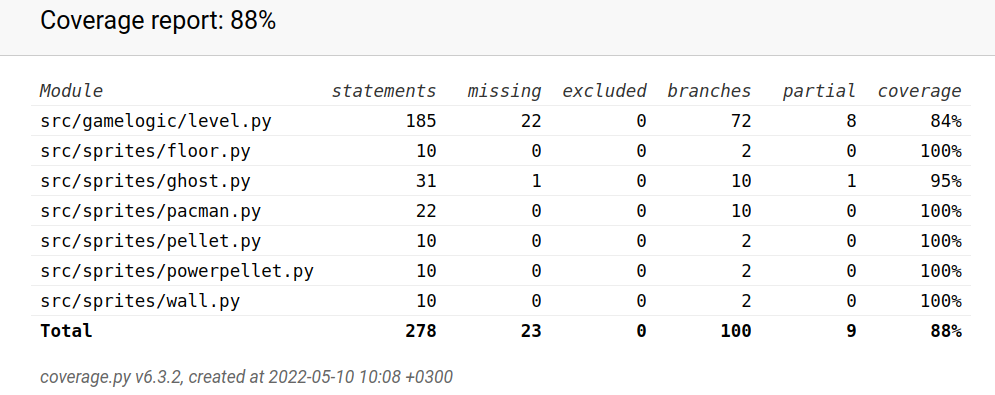
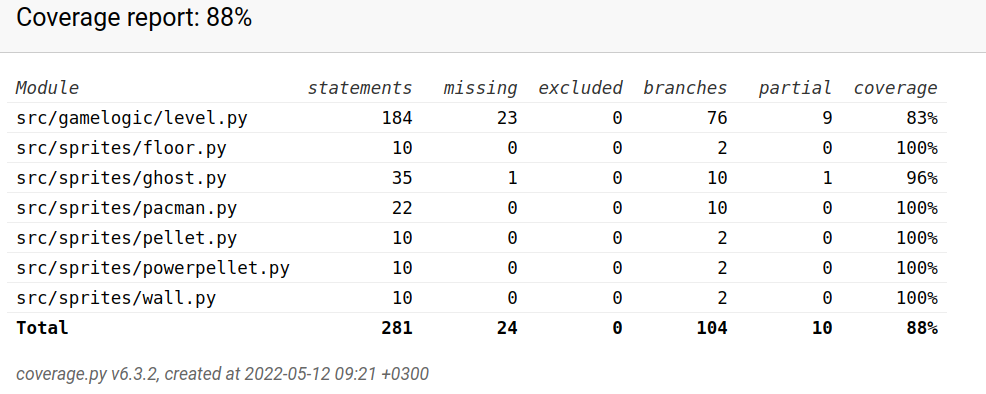
korjauksia ghost-luokkaan

diff --git a/src/gamelogic/level.py b/src/gamelogic/level.py
@@ -50,6 +50,7 @@ class Level:  # pylint: disable=too-many-instance-attributes
                    5: self._add_ghost,
                    6: self._add_ghost,
                    7: self._add_ghost,
+                   8: self._add_floors,
                    9: self._add_empty}
 
         for height in range(level_height):
@@ -82,6 +83,9 @@ class Level:  # pylint: disable=too-many-instance-attributes
 
     def _add_pacman(self):
         self.pacman = Pacman(self.normalized_x, self.normalized_y)
+        self.floors.add(Floor(self.normalized_x, self.normalized_y))
+
+    def _add_floors(self):
         self.floors.add(Floor(self.normalized_x, self.normalized_y))
 
     def _add_ghost(self):
@@ -162,8 +166,8 @@ class Level:  # pylint: disable=too-many-instance-attributes
         Args:
             ghost: Ghost-luokan sprite.
         """
-        starting_point = 5*CELL_SIZE + CELL_SIZE*ghost.number
-        new_ghost = Ghost(ghost.number, starting_point, 7*CELL_SIZE)
+        new_ghost = Ghost(ghost.number, ghost.starting_point[0]*CELL_SIZE,
+            ghost.starting_point[1]*CELL_SIZE)
         self._speed_up_ghost(new_ghost)
         self.ghosts.add(new_ghost)
         self.all_sprites.add(self.ghosts)
@@ -172,7 +176,7 @@ class Level:  # pylint: disable=too-many-instance-attributes
         if self.cleared >= 1:
             ghost.speed = max(ghost.speed-(self.cleared*3), 3)
 
-    def move_pacman(self):
+    def move_pacman(self, direction):
         """Pacman-luokan spriten liikuttaminen. Jos Pacman on keskellä ruutua ja liikkuminen on
         mahdollista new_direction-suuntaan, asetetaan nykyiseksi suunnaksi new_direction.
         Tämän jälkeen vaihdetaan kuva vastaamaan liikkumissuuntaa, liikutaan nykyiseen
@@ -183,8 +187,8 @@ class Level:  # pylint: disable=too-many-instance-attributes
         """
         self._check_timer()
         if self._centered(self.pacman):
-            if self._moving_is_possible(self.pacman.new_direction):
-                self.pacman.direction = self.pacman.new_direction
+            if self._moving_is_possible(direction):
+                self.pacman.direction = direction
         if self._moving_is_possible(self.pacman.direction):
             self.pacman.set_image()
             self.pacman.rect.move_ip(
@@ -242,25 +246,30 @@ class Level:  # pylint: disable=too-many-instance-attributes
                 return True
         return False
 
+    def _check_neighbours(self, queue, visited, current_cell, path):
+        for neighbour in [(0, 1), (0, -1), (1, 0), (-1, 0)]:
+            if self._neighbour_is_inside_matrix(neighbour, current_cell):
+                next_cell = [neighbour[0]+current_cell[0],
+                            neighbour[1]+current_cell[1]]
+                if next_cell not in visited and self.level[next_cell[1]][next_cell[0]] != 1:
+                    queue.append(next_cell)
+                    path.append([current_cell, next_cell])
+        return path
+
     def _bfs(self, starting_cell, target_cell):
         queue = deque()
         visited = []
         path = []
         queue.append(starting_cell)
-        while queue:  # pylint: disable=too-many-nested-blocks
+        while queue:
             current_cell = queue.popleft()
             visited.append(current_cell)
 
             if current_cell == target_cell:
                 break
 
-            for neighbour in [(0, 1), (0, -1), (1, 0), (-1, 0)]:
-                if self._neighbour_is_inside_matrix(neighbour, current_cell):
-                    next_cell = [neighbour[0]+current_cell[0],
-                                 neighbour[1]+current_cell[1]]
-                    if next_cell not in visited and self.level[next_cell[1]][next_cell[0]] != 1:
-                        queue.append(next_cell)
-                        path.append([current_cell, next_cell])
+            path = self._check_neighbours(queue, visited, current_cell, path)
+
         direction = [target_cell]
         while target_cell != starting_cell:
             for step in path:

diff --git a/src/tests/all_test.py b/src/tests/all_test.py
@@ -46,7 +46,7 @@ class TestLevel(unittest.TestCase):
         self.coordinates_match(self.pacman, size * 3, size * 2)
 
     def test_ghost1_coordinates_when_starting(self):
-        self.coordinates_match(self.ghost1, size * 3, size * 4)
+        self.coordinates_match(self.ghost1, size, size * 2)
 
     def test_moving_down(self):
         self.level.move_pacman((0, size))
@@ -119,11 +119,11 @@ class TestLevel(unittest.TestCase):
 
     def test_bfs_finds_correct_path(self):
         path = self.level._find_path(self.ghost1)
-        self.assertEqual(path, [3, 3])
+        self.assertEqual(path, [1, 1])
 
     def test_bfs_returns_path0_if_next_to_pacman(self):
-        self.level.move_ghost(self.ghost1)
-        path = self.level._find_path(self.ghost1)
+        self.level.move_ghost(self.ghost2)
+        path = self.level._find_path(self.ghost2)
         self.assertEqual(path, [3, 2])
 
     def test_ghost_is_vulnerable_if_powerpellet_is_eaten(self):
@@ -138,7 +138,7 @@ class TestLevel(unittest.TestCase):
     def test_ghost_revives_to_correct_location(self):
         self.ghost1.kill()
         self.level.revive_ghost(self.ghost1)
-        self.coordinates_match(self.ghost1, size * 3, size * 4)
+        self.coordinates_match(self.ghost1, size, 2*size)
 
     def test_neighbour_inside_matrix_returns_false_if_not_inside_matrix(self):
         self.assertFalse(

diff --git a/src/sprites/ghost.py b/src/sprites/ghost.py
@@ -21,24 +21,28 @@ class Ghost(pygame.sprite.Sprite):
             )
             self.speed = 6
             self.vulnerable_target = (2, 2)
+            self.starting_point = (6, 6)
         elif number == 2:
             self.image = pygame.image.load(
                 os.path.join(dirname, "..", "assets", "ghost2.png")
             )
             self.speed = 6
             self.vulnerable_target = (14, 2)
+            self.starting_point = (10, 6)
         elif number == 3:
             self.image = pygame.image.load(
                 os.path.join(dirname, "..", "assets", "ghost3.png")
             )
             self.speed = 9
             self.vulnerable_target = (2, 14)
+            self.starting_point = (6, 7)
         else:
             self.image = pygame.image.load(
                 os.path.join(dirname, "..", "assets", "ghost4.png")
             )
             self.speed = 12
             self.vulnerable_target = (14, 14)
+            self.starting_point = (10, 7)
         self.vulnerable = False
         self.rect = self.image.get_rect()
         self.rect.x = coordinate_x

diff --git a/src/ui/gameloop.py b/src/ui/gameloop.py
@@ -51,7 +51,9 @@ class Gameloop:
         silmukka tapahtumien käsittelyä varten.
         """
         score_check = self._check_highscores_from_db()
-        score_check = score_check[0]
+        if score_check != 0:
+            score_check = score_check[0]
+
         self.initialize_gameover(score_check)
         if self.level.score > score_check:
             while True:
@@ -208,6 +210,12 @@ class Gameloop:
         return True
 
     def handle_gameover_events_no_entry(self):
+        """Käsitellään silmukassa tapahtumat, kun pelaaja ei laita nimeään
+        leaderboardille.
+
+        Returns:
+            Boolean arvo False, jos näyttö suljetaan. Muuten True.
+        """
         for event in pygame.event.get():
             if event.type == pygame.KEYDOWN:
                 if event.key == pygame.K_ESCAPE:
@@ -268,7 +276,7 @@ class Gameloop:
 
     def _update_round(self):
         self.move_ghosts()
-        self.level.move_pacman()
+        self.level.move_pacman(self.level.pacman.new_direction)
         self._update_score()
         pygame.display.update()
 

diff --git a/src/levels/layouts.py b/src/levels/layouts.py
@@ -3,9 +3,9 @@ LEVEL_1 = [[9, 9, 9, 9, 9, 9, 9, 9, 9, 9, 9, 9, 9, 9, 9, 9, 9],
            [9, 1, 2, 0, 0, 0, 0, 0, 0, 0, 0, 0, 0, 0, 2, 1, 9],
            [9, 1, 0, 1, 0, 1, 1, 1, 0, 1, 1, 1, 0, 1, 0, 1, 9],
            [9, 1, 0, 0, 0, 0, 0, 0, 0, 0, 0, 0, 0, 0, 0, 1, 9],
-           [9, 1, 1, 1, 0, 1, 1, 0, 0, 0, 1, 1, 0, 1, 1, 1, 9],
-           [9, 1, 0, 0, 0, 1, 4, 0, 0, 0, 6, 1, 0, 0, 0, 1, 9],
-           [9, 1, 0, 1, 0, 1, 5, 0, 0, 0, 7, 1, 0, 1, 0, 1, 9],
+           [9, 1, 1, 1, 0, 1, 1, 8, 8, 8, 1, 1, 0, 1, 1, 1, 9],
+           [9, 1, 0, 0, 0, 1, 4, 8, 8, 8, 5, 1, 0, 0, 0, 1, 9],
+           [9, 1, 0, 1, 0, 1, 6, 8, 8, 8, 7, 1, 0, 1, 0, 1, 9],
            [9, 1, 2, 1, 0, 1, 1, 1, 1, 1, 1, 1, 0, 1, 2, 1, 9],
            [9, 1, 0, 1, 0, 0, 0, 0, 0, 0, 0, 0, 0, 1, 0, 1, 9],
            [9, 1, 0, 0, 0, 1, 0, 1, 1, 1, 0, 1, 0, 0, 0, 1, 9],

diff --git a/dokumentaatio/tuntikirjanpito.md b/dokumentaatio/tuntikirjanpito.md
@@ -28,4 +28,5 @@
 | 6.5.   |  3h    | Tietokannan perusteet toimivat. |
 | 9.5.   |  6,5h  | Tietokanta toimii kokonaisuudessaan. Päivitetty dokumentaatiota ja refaktoroitu Level-luokkaa. |
 | 10.5.  |  2h    | Testausdokumentti luotu ja lisätty muutamat testit. |
-| Yhteensä | 88h |  |
+| 11.5.  |  6h    | Docstring-kommentointi loppuun. Viimeisten asioiden hiomista lähdekoodissa. |
+| Yhteensä | 94h |  |
